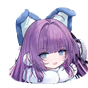
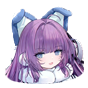
Before remake PoseidonFormPower

diff --git a/TashkentSpire2Code/Cards/Uncommon/NestingDoll.cs b/TashkentSpire2Code/Cards/Uncommon/NestingDoll.cs
@@ -10,11 +10,11 @@ namespace TashkentSpire2.TashkentSpire2Code.Cards.Uncommon;
 
 public sealed class NestingDoll() : TashkentCard(1, CardType.Attack, CardRarity.Uncommon, TargetType.AnyEnemy)
 {
-    public override IEnumerable<CardKeyword> CanonicalKeywords => [CardKeyword.Exhaust];
+    public override IEnumerable<CardKeyword> CanonicalKeywords => [CardKeyword.Ethereal];
     
     protected override IEnumerable<DynamicVar> CanonicalVars =>
     [
-        new CalculationBaseVar(4m),
+        new CalculationBaseVar(6m),
         new ExtraDamageVar(2m),
         new CalculatedDamageVar(ValueProp.Move).WithMultiplier((CardModel card, Creature? _) =>
             card.Owner.PlayerCombatState?.ExhaustPile.Cards.Count((CardModel c) => c is NestingDoll) ?? 0)
@@ -39,7 +39,7 @@ public sealed class NestingDoll() : TashkentCard(1, CardType.Attack, CardRarity.
     
     protected override void OnUpgrade()
     {
-        AddKeyword(CardKeyword.Ethereal);
+        AddKeyword(CardKeyword.Exhaust);
         base.DynamicVars.ExtraDamage.UpgradeValueBy(1m);
     }
 }

diff --git a/TashkentSpire2Code/Powers/MobilePower.cs b/TashkentSpire2Code/Powers/MobilePower.cs
@@ -70,7 +70,7 @@ public sealed class MobilePower : TashkentPower
 		if (cardPlay.Card.Owner == base.Owner.Player && GetInternalData<Data>().amountsForPlayedCards.Remove(cardPlay.Card, out var value))
 		{
 			Flash();
-			await PowerCmd.Apply<DexterityPower>(base.Owner, value, base.Owner, null, silent: true);
+			await PowerCmd.Apply<DexterityPower>(base.Owner, value * this.Amount, base.Owner, null, silent: true);
 			base.DynamicVars["DexterityApplied"].BaseValue += (decimal)base.DynamicVars.Dexterity.IntValue;
 			InvokeDisplayAmountChanged();
 		}
@@ -81,7 +81,7 @@ public sealed class MobilePower : TashkentPower
 		if (side == base.Owner.Side)
 		{
 			await PowerCmd.Remove(this);
-			await PowerCmd.Apply<DexterityPower>(base.Owner, -base.DynamicVars["DexterityApplied"].BaseValue, base.Owner, null, silent: true);
+			await PowerCmd.Apply<DexterityPower>(base.Owner, -base.DynamicVars["DexterityApplied"].BaseValue * this.Amount, base.Owner, null, silent: true);
 		}
 	}
 }

diff --git a/TashkentSpire2Code/Character/Tashkent.cs b/TashkentSpire2Code/Character/Tashkent.cs
@@ -64,6 +64,8 @@ public sealed class TashkentCharacter : CustomCharacterModel
 		"res://TashkentSpire2/images/Tashkent/character_icon_tashkent.png";  
 	public override string CustomCharacterSelectIconPath =>         //选择时
 		"res://TashkentSpire2/images/Tashkent/char_select_tashkent.png"; 
+	public override string CustomIconOutlineTexturePath =>			//带边框
+		"res://TashkentSpire2/images/Tashkent/character_icon_tashkent_outline.png"; 
 	public override string CustomCharacterSelectLockedIconPath =>   //未解锁
 		"res://TashkentSpire2/images/Tashkent/char_select_tashkent_locked.png"; 
 	public override string CustomMapMarkerPath =>                   // 地图标记

diff --git a/TashkentSpire2Code/Powers/AttackToDrawPower.cs b/TashkentSpire2Code/Powers/AttackToDrawPower.cs
@@ -11,9 +11,9 @@ public sealed class AttackToDrawPower : TashkentPower
     public override PowerStackType StackType => PowerStackType.Counter;
     
     public override string CustomBigIconPath => 
-        "res://TashkentSpire2/images/powers/big/mark_power.png";
+        "res://TashkentSpire2/images/powers/big/attacktodraw_power.png";
     public override string CustomPackedIconPath => 
-        "res://TashkentSpire2/images/powers/packed/mark_power.png";
+        "res://TashkentSpire2/images/powers/packed/attacktodraw_power.png";
     
     public override async Task AfterCardPlayed(PlayerChoiceContext context, CardPlay cardPlay)
     {

diff --git a/TashkentSpire2Code/Powers/PoseidonFormPower.cs b/TashkentSpire2Code/Powers/PoseidonFormPower.cs
@@ -22,9 +22,9 @@ public sealed class PoseidonFormPower : TashkentPower
     public override PowerStackType StackType => PowerStackType.Counter;
 
     public override string CustomBigIconPath => 
-        "res://TashkentSpire2/images/powers/big/mark_power.png";
+        "res://TashkentSpire2/images/powers/big/poseidon_form_power.png";
     public override string CustomPackedIconPath => 
-        "res://TashkentSpire2/images/powers/packed/mark_power.png";
+        "res://TashkentSpire2/images/powers/packed/poseidon_form_power.png";
     
     public override int DisplayAmount => base.DynamicVars[RemainKey].IntValue;
 

diff --git a/TashkentSpire2Code/Powers/BarrelModificationPower.cs b/TashkentSpire2Code/Powers/BarrelModificationPower.cs
@@ -12,7 +12,7 @@ public sealed class BarrelModificationPower : TashkentPower
     protected override IEnumerable<IHoverTip> ExtraHoverTips => [HoverTipFactory.FromPower<VigorPower>()];
     
     public override string CustomBigIconPath => 
-        "res://TashkentSpire2/images/powers/big/mark_power.png";
+        "res://TashkentSpire2/images/powers/big/barrelmodification_power.png";
     public override string CustomPackedIconPath => 
-        "res://TashkentSpire2/images/powers/packed/mark_power.png";
+        "res://TashkentSpire2/images/powers/packed/barrelmodification_power.png";
 }

diff --git a/TashkentSpire2Code/Cards/Uncommon/Rescue.cs b/TashkentSpire2Code/Cards/Uncommon/Rescue.cs
@@ -8,6 +8,8 @@ public sealed class Rescue() : TashkentCard(0, CardType.Skill, CardRarity.Uncomm
 {
     protected override bool HasEnergyCostX => true;
     
+    public override IEnumerable<CardKeyword> CanonicalKeywords => [CardKeyword.Ethereal];
+    
     protected override async Task OnPlay(PlayerChoiceContext choiceContext, CardPlay cardPlay)
     {
         await CreatureCmd.TriggerAnim(base.Owner.Creature, "Cast", base.Owner.Character.CastAnimDelay);

diff --git a/TashkentSpire2Code/Powers/TorpedoPower.cs b/TashkentSpire2Code/Powers/TorpedoPower.cs
@@ -31,7 +31,7 @@ public sealed class TorpedoPower : TashkentPower
     {
         var distPower = owner.GetPower<DistancePower>();
         int dist = distPower != null ? (int)distPower.Amount : 0;
-
+        dist -= 10;
         if (distPower == null || dist == -1 || dist == 0 || dist == 1)
             return 3;
         if (dist == -2 || dist == -3)

diff --git a/TashkentSpire2Code/Cards/Rare/ClusterTorpedo.cs b/TashkentSpire2Code/Cards/Rare/ClusterTorpedo.cs
@@ -1,0 +1,6 @@
+namespace TashkentSpire2.TashkentSpire2Code.Cards.Rare;
+
+public sealed class ClusterTorpedo
+{
+    
+}
